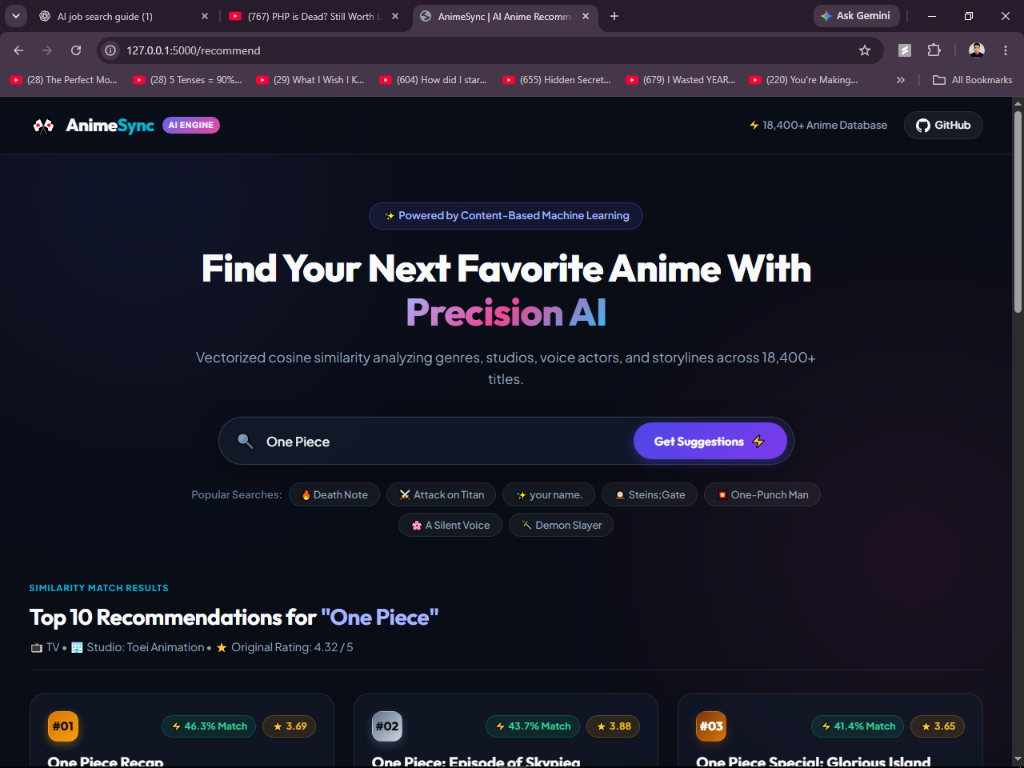
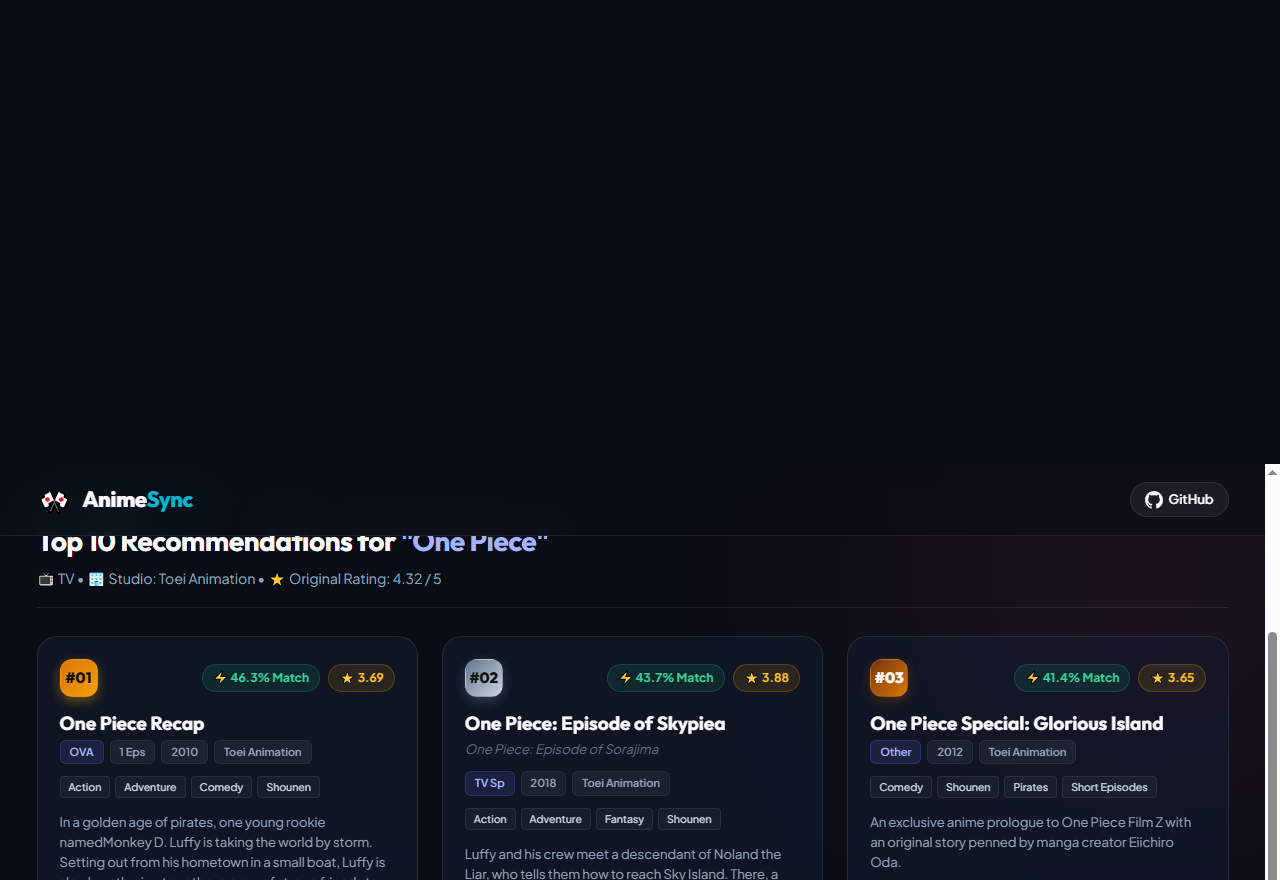
Fix README screenshot: Replace redundant dual-images with single crisp preview

diff --git a/readme.md b/readme.md
@@ -10,13 +10,9 @@ A content-based recommendation web application that suggests similar anime title
 
 ---
 
-## 📸 Screenshots
+## 📸 Application Preview
 
-### 🔍 Interactive Search Interface
-![Search Interface](screenshots/preview.png)
-
-### 🎴 Top 10 Ranked Recommendation Cards
-![Recommendation Results](screenshots/results.png)
+![AnimeSync Application Preview](screenshots/preview.png)
 
 ---
 
@@ -66,8 +62,7 @@ A content-based recommendation web application that suggests similar anime title
 
 ```text
 ├── screenshots/
-│   ├── preview.png          # UI search interface screenshot
-│   └── results.png          # Recommendation cards screenshot
+│   └── preview.png          # Clean UI preview screenshot
 ├── static/
 │   └── style.css            # Modern dark glassmorphic styling
 ├── templates/
